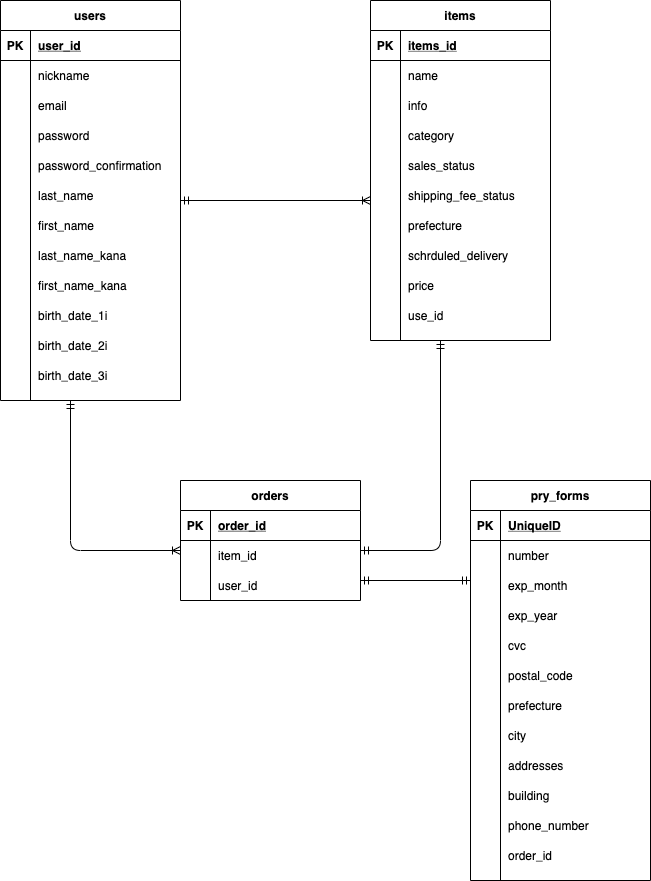
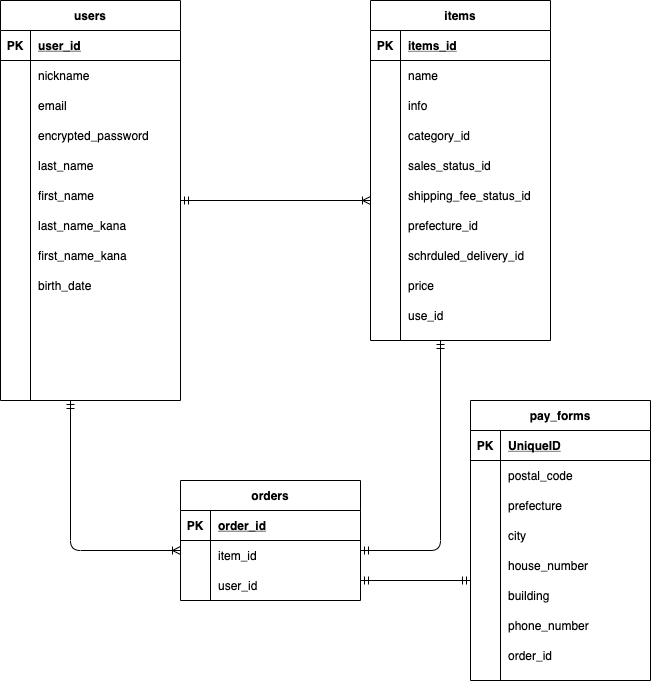
テーブル設計再提出

diff --git a/README.md b/README.md
@@ -3,19 +3,17 @@
 
 ## users テーブル
 
-| Column                | Type   | Options     |
-|-----------------------|--------|-------------|
-| nickname              | string | null: false |
-| email                 | string | null: false |
-| password              | string | null: false |
-| password_confirmation | string | null: false |
-| last_name             | string | null: false |
-| first_name            | string | null: false |
-| last_name_kana        | string | null: false |
-| first_name_kana       | string | null: false |
-| birth_date_1i         | date   | null:false  |
-| birth_date_2i         | date   | null:false  |
-| birth_date_3i         | date   | null:false  |
+| Column                | Type   | Options      |
+|-----------------------|--------|--------------|
+| nickname              | string | null: false  |
+| email                 | string | unique: true |
+| encrypted_password    | string | null: false  |
+| last_name             | string | null: false  |
+| first_name            | string | null: false  |
+| last_name_kana        | string | null: false  |
+| first_name_kana       | string | null: false  |
+| birth_date            | date   | null:false   |
+
 ### Association
 
 - has_many :items
@@ -23,17 +21,17 @@
 
 ## itemsテーブル
 
-| Column              | Type       | Options                        |
-|---------------------|------------|--------------------------------|
-| name                | string     | null: false                    |
-| info                | text       | null: false                    |
-| category            | string     | null: false                    |
-| sales_status        | string     | null: false                    |
-| shipping_fee_status | string     | null: false                    |
-| prefecture          | string     | null: false                    |
-| scheduled_delivery  | string     | null: false                    |
-| price               | integer    | null: false                    |
-| user                | references | null: false, foreign_key: true |
+| Column                 | Type       | Options                        |
+|------------------------|------------|--------------------------------|
+| name                   | string     | null: false                    |
+| info                   | text       | null: false                    |
+| category_id            | integer    | null: false                    |
+| sales_status_id        | integer    | null: false                    |
+| shipping_fee_status_id | integer    | null: false                    |
+| prefecture_id          | integer    | null: false                    |
+| scheduled_delivery-id  | integer    | null: false                    |
+| price                  | integer    | null: false                    |
+| user                   | references | null: false, foreign_key: true |
 
 ### Association
 
@@ -52,19 +50,16 @@
 - belongs_to :item
 - has_one    :pay_form
 
-## pay_forms
+## pay_formsテーブル
 
 |Column        |Type        |Options                         |
 |--------------|------------|--------------------------------|
-| number       | integer    | null: false                    |
-| exp_month    | date       | null: false                    |
-| exp_year     | date       | null: false                    |
-| cvc          | integer    | null: false                    |
-| postal_code  | integer    | null: false                    |
+| postal_code  | string     | null: false                    |
+| prefecture   | string     | null: false                    |
 | city         | string     | null: false                    | 
-| addresses    | string     | null: false                    |
+| house_number | string     | null: false                    |
 | building     | string     |                                |
-| phone_number | integer    | null: false                    |
+| phone_number | string     | null: false                    |
 | order        | references | null: false, foreign_key: true |
 
 ### Association
